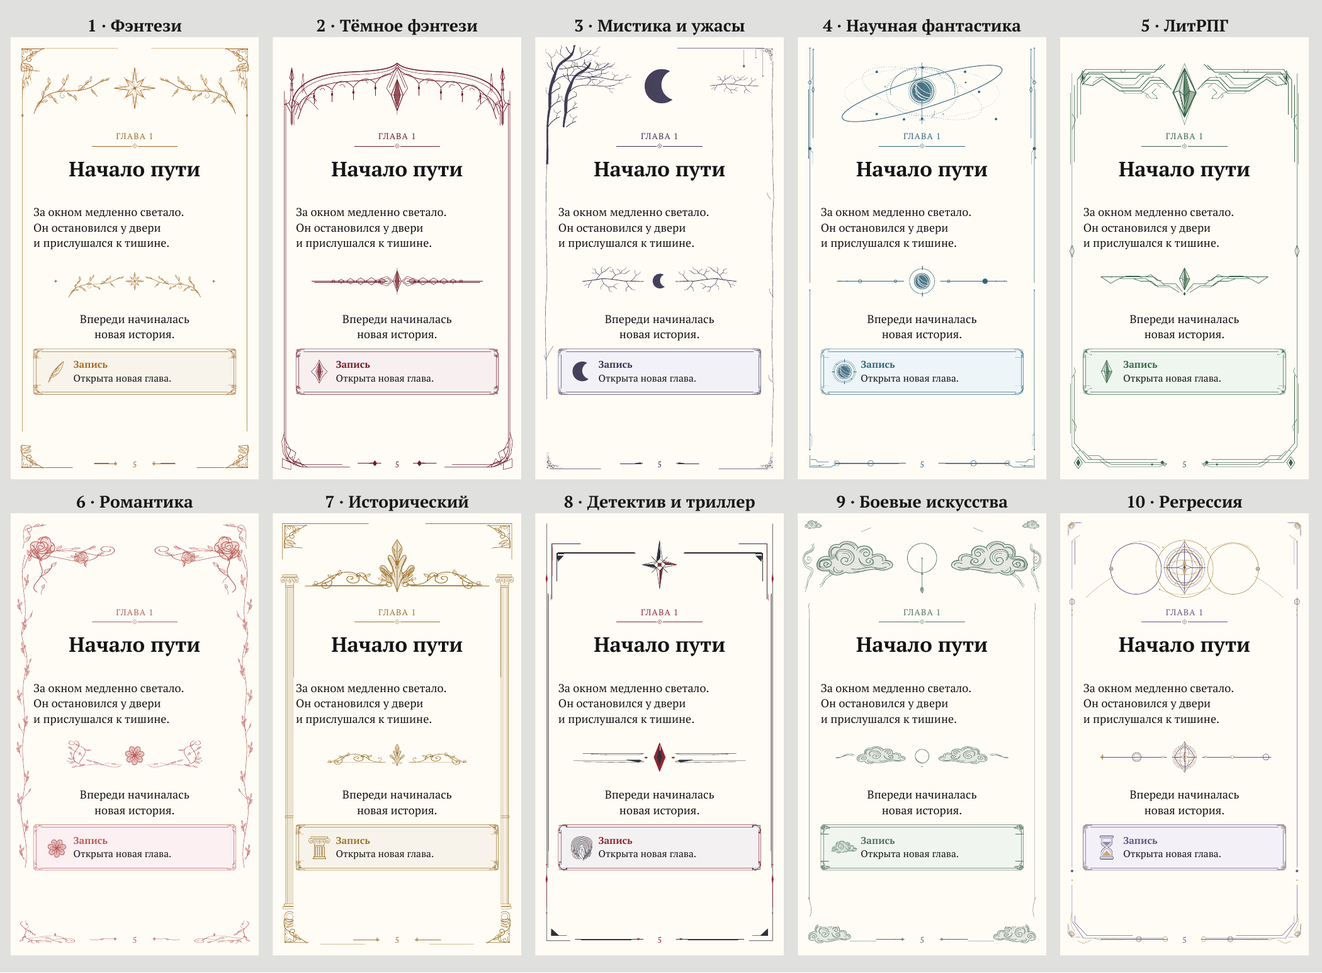
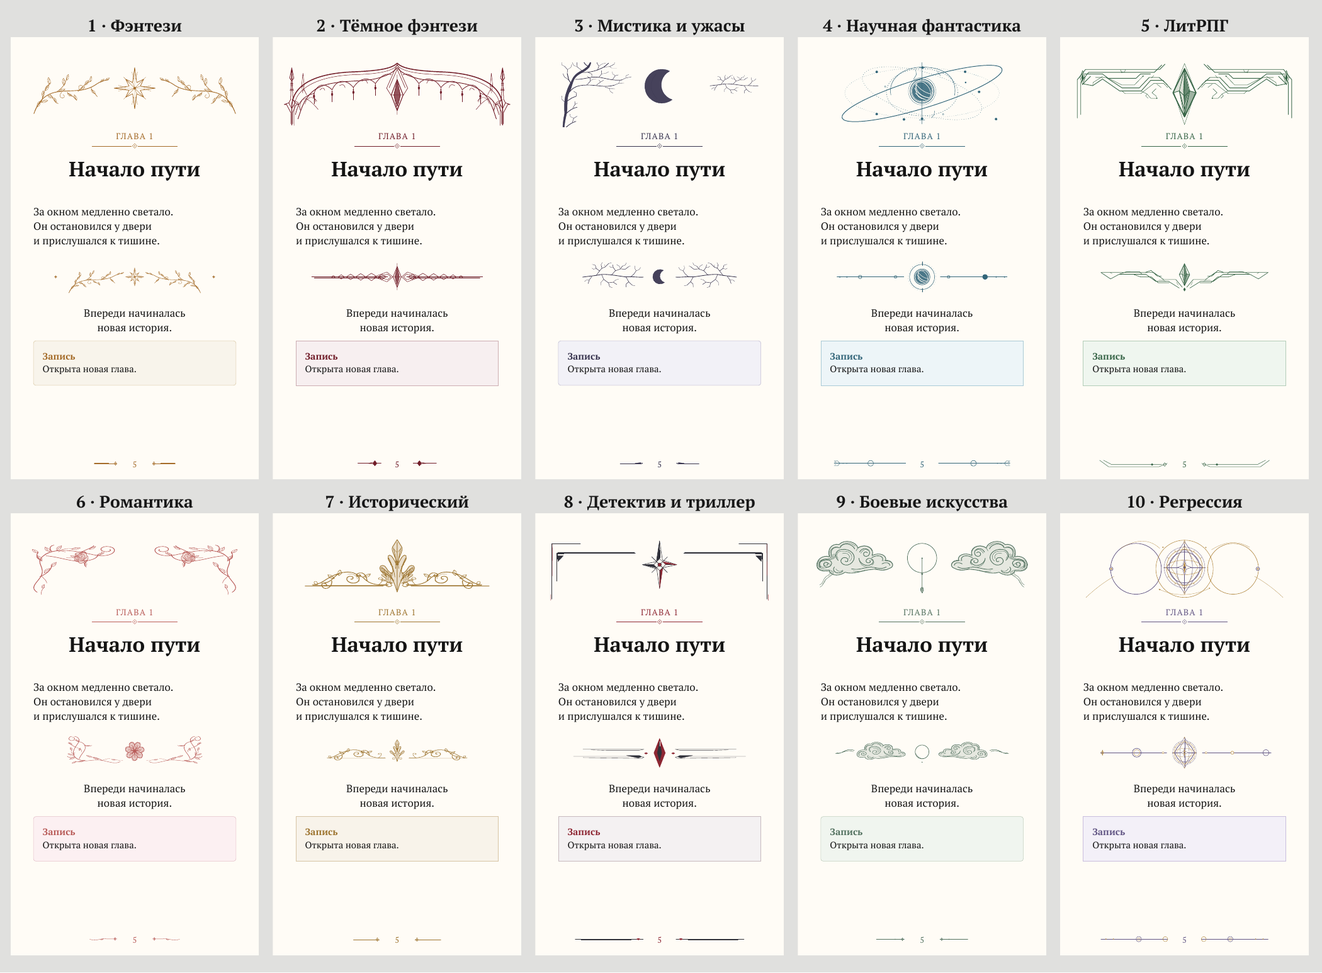
Simplify reading pages and system messages; reduce default text size

diff --git a/src/core/epub/templates.js b/src/core/epub/templates.js
@@ -1,7 +1,7 @@
 'use strict';
 
 const { chapterLabel, chapterKicker } = require('../model');
-const { svgTitleMark, svgSceneBreak, svgSystemIcon, svgPanelCorner } = require('../signature');
+const { svgTitleMark, svgSceneBreak } = require('../signature');
 
 /** Экранирование текста для XML. */
 function esc(s) {
@@ -181,7 +181,6 @@ p.kicker {
   background: ${style.systemBg};
   border: 1px solid ${style.systemBorder};
   border-radius: ${style.panel === 'rounded' ? '0.4em' : '0'};
-  border-left: 2px solid ${style.accent};
   font-family: "${style.signature ? 'PT Serif' : 'PT Sans'}", Georgia, serif;
   font-size: 0.9em;
   line-height: 1.38;
@@ -206,20 +205,8 @@ p.kicker {
 
 .scene svg { width: 100%; max-width: 22em; height: auto; }
 
-/* Рамка главы следует потоку EPUB; читалка сохраняет своё разбиение страниц. */
-.chapter.decorated { position: relative; padding: 0.8em 1.2em 1.6em; border-left: 1px solid ${style.systemBorder}; border-right: 1px solid ${style.systemBorder}; }
-.chapter-corner { position: absolute; width: 1.6em; height: 1.6em; }
-.chapter-corner svg, .panel-corner svg { width: 100%; height: 100%; }
-.corner-tl { left: 0; top: 0; }
-.corner-tr { right: 0; top: 0; transform: scaleX(-1); }
-.corner-bl { left: 0; bottom: 0; transform: scaleY(-1); }
-.corner-br { right: 0; bottom: 0; transform: scale(-1); }
 .kicker-rule { width: 35%; height: 0; margin: 0.6em auto 1em; border-top: 1px solid ${style.accent}; }
-.decorated .sysblock { position: relative; border: 1px solid ${style.accent}; border-left-width: 1px; padding: 0.9em 0.9em 0.9em 3.9em; }
-.system-icon { position: absolute; left: 0.75em; top: 0.85em; width: 2.35em; height: 2.35em; }
-.system-icon svg { width: 100%; height: 100%; }
 .sysblock p:first-of-type strong { color: ${style.accent}; }
-.panel-corner { position: absolute; width: 0.9em; height: 0.9em; }
 
 figure {
   margin: 1.1em 0;
@@ -349,7 +336,6 @@ function aboutXhtml(book) {
 /** Блоки главы → XHTML. */
 function chapterBody(ch, style, hrefOfAsset) {
   const out = [];
-  if (style.signature) for(const corner of ['tl','tr','bl','br']) out.push(`<span class="chapter-corner corner-${corner}">${svgPanelCorner(style.accent,style.genre)}</span>`);
   if (style.signature) out.push(`    <p class="opener-mark">${svgTitleMark(style.accent, style.genre)}</p>`);
   const kicker = chapterKicker(ch);
   if (kicker) out.push(`    <p class="kicker">${esc(kicker)}</p>`);
@@ -373,8 +359,7 @@ function chapterBody(ch, style, hrefOfAsset) {
         break;
       case 'system': {
         const lines = block.lines.map((runs) => `      <p>${runsToHtml(runs)}</p>`).join('\n');
-        const decoration = style.signature ? `<span class="system-icon">${svgSystemIcon(style.accent,style.genre)}</span>` + ['tl','tr','bl','br'].map(c=>`<span class="panel-corner corner-${c}">${svgPanelCorner(style.accent,style.genre)}</span>`).join('') : '';
-        out.push(`    <div class="sysblock" role="note">${decoration}\n${lines}\n    </div>`);
+        out.push(`    <div class="sysblock" role="note">\n${lines}\n    </div>`);
         firstPara = true;
         break;
       }

diff --git a/src/renderer/styles.css b/src/renderer/styles.css
@@ -434,28 +434,18 @@ td.col-title input:focus { background: var(--bg-input); border-color: var(--acce
 .genre-preview { position: relative; isolation: isolate; background: #fffcf6; color: #202020; padding: 21px 25px 24px; margin: 10px 0 18px; text-align: center; font-family: "Book Serif", Georgia, serif; box-shadow: 0 2px 12px #0002; }
 .genre-preview svg { display: block; width: 100%; height: auto; margin: 0 auto; }
 .genre-preview-content { position: relative; z-index: 1; }
-.genre-frame { position: absolute; inset: 6px; z-index: 0; pointer-events: none; }
-.genre-frame svg { width: 100%; height: 100%; }
 .genre-kicker { color: var(--genre-accent); letter-spacing: .06em; font-size: 11px; margin: 7px 0 3px; }
 .genre-kicker-rule { position: relative; width: 45%; height: 1px; background: var(--genre-accent); margin: 9px auto 14px; opacity: .75; }
 .genre-kicker-rule:after { content: ""; position: absolute; width: 4px; height: 4px; background: #fffcf6; border: 1px solid var(--genre-accent); left: calc(50% - 3px); top: -2px; transform: rotate(45deg); }
 .genre-title { font-size: 25px; font-weight: 700; line-height: 1.15; margin-bottom: 19px; }
-.genre-preview p { font-size: 15px; line-height: 1.45; text-align: left; margin: 0 0 10px; }
+.genre-preview p { font-size: 14px; line-height: 1.45; text-align: left; margin: 0 0 10px; }
 #genreDivider { margin: 7px 0 13px; }
 #genreDivider svg { width: 100%; }
 .genre-preview p.genre-next { text-align: center; margin-bottom: 18px; }
-.genre-note { position: relative; display: flex; align-items: center; gap: 11px; border: 1px solid var(--genre-accent); outline: 1px solid var(--genre-accent); outline-offset: -4px; background: var(--genre-bg); font-size: 13px; line-height: 1.4; padding: 14px 12px; text-align: left; }
+.genre-note { border: 1px solid var(--genre-border); background: var(--genre-bg); font-size: 12.5px; line-height: 1.4; padding: 14px 12px; text-align: left; }
 .genre-note strong { color: var(--genre-accent); font-size: 15px; }
-.genre-icon { width: 30px; flex: none; }
-.genre-note-corner { position: absolute; width: 13px; height: 13px; }
-.corner-tl { top: 0; left: 0; }
-.corner-tr { top: 0; right: 0; transform: scaleX(-1); }
-.corner-bl { bottom: 0; left: 0; transform: scaleY(-1); }
-.corner-br { bottom: 0; right: 0; transform: scale(-1); }
 .genre-folio { position: relative; color: var(--genre-accent); font-size: 13px; margin-top: 13px; height: 20px; }
 #genreFolio { position: absolute; inset: 0; }
 #genreFolio svg { height: 22px; }
 .genre-folio > span { position: relative; line-height: 22px; }
 .genre-preview.plain .genre-kicker-rule { display: none; }
-.genre-preview.plain .genre-icon { display: none; }
-.genre-preview.plain .genre-note { outline: none; }

diff --git a/src/renderer/index.html b/src/renderer/index.html
@@ -88,7 +88,6 @@
       </label>
       <p id="genreDescription" class="muted small"></p>
       <div id="genrePreview" class="genre-preview" aria-label="Образец оформления">
-        <div id="genreFrame" class="genre-frame"></div>
         <div class="genre-preview-content">
           <div id="genreOpener"></div>
           <div class="genre-kicker">ГЛАВА 1</div>
@@ -98,9 +97,7 @@
           <div id="genreDivider"></div>
           <p class="genre-next">Впереди начиналась<br/>новая история.</p>
           <div id="genreNote" class="genre-note">
-            <div id="genreIcon" class="genre-icon"></div>
             <div><strong>Запись</strong><br/>Открыта новая глава.</div>
-            <span id="genreNoteCorners"></span>
           </div>
         </div>
         <div class="genre-folio"><div id="genreFolio"></div><span>23</span></div>
@@ -121,8 +118,8 @@
         </label>
       </div>
 
-      <label class="slider">Кегль основного текста <output id="outBody">14.0 pt</output>
-        <input id="styleBody" type="range" min="10" max="18" step="0.1" value="14"/>
+      <label class="slider">Кегль основного текста <output id="outBody">13.0 pt</output>
+        <input id="styleBody" type="range" min="10" max="18" step="0.1" value="13"/>
       </label>
       <label class="slider">Межстрочный интервал <output id="outLead">1.36</output>
         <input id="styleLead" type="range" min="1.25" max="1.6" step="0.01" value="1.36"/>
@@ -130,8 +127,8 @@
       <label class="slider">Поля слева и справа <output id="outSide">10 мм</output>
         <input id="styleSide" type="range" min="9" max="11" step="0.5" value="10"/>
       </label>
-      <label class="slider">Кегль системных блоков <output id="outSys">12.0 pt</output>
-        <input id="styleSys" type="range" min="9.5" max="16" step="0.5" value="12"/>
+      <label class="slider">Кегль системных блоков <output id="outSys">11.5 pt</output>
+        <input id="styleSys" type="range" min="9.5" max="16" step="0.5" value="11.5"/>
       </label>
 
       <div class="checks">

diff --git a/src/core/signature.js b/src/core/signature.js
@@ -58,25 +58,16 @@ function drawKickerRule(doc,cx,y,width,accent) {
   doc.restore();
 }
 function drawSystemDecoration(doc,x,y,w,h,style,{continued=false,continuesOnNext=false}={}) {
-  // Две тонкие рамки и собственные уголки жанра. На разрыве незамкнуты.
-  const angular=style.panel==='angular', cut=angular?6:3;
-  doc.save().lineWidth(.4).strokeColor(style.accent);
-  doc.moveTo(x,y+cut).lineTo(x,y+h-cut);
-  doc.moveTo(x+w,y+cut).lineTo(x+w,y+h-cut);
-  if(!continued) doc.moveTo(x,y+cut).lineTo(x+cut,y).lineTo(x+w-cut,y).lineTo(x+w,y+cut);
-  if(!continuesOnNext) doc.moveTo(x,y+h-cut).lineTo(x+cut,y+h).lineTo(x+w-cut,y+h).lineTo(x+w,y+h-cut);
-  doc.stroke();
-  doc.lineWidth(.2).strokeOpacity(.68);
-  doc.moveTo(x+3,y+7).lineTo(x+3,y+h-7).moveTo(x+w-3,y+7).lineTo(x+w-3,y+h-7);
-  if(!continued) doc.moveTo(x+9,y+3).lineTo(x+w-9,y+3);
-  if(!continuesOnNext) doc.moveTo(x+9,y+h-3).lineTo(x+w-9,y+h-3);
-  doc.stroke().restore();
-  const s=Math.min(12,h/3);
-  for(const [cx,cy,sx,sy,draw] of [[x,y,1,1,!continued],[x+w,y,-1,1,!continued],[x,y+h,1,-1,!continuesOnNext],[x+w,y+h,-1,-1,!continuesOnNext]]) {
-    if(!draw) continue;
-    doc.save().translate(cx,cy).scale(sx,sy);
-    drawArtwork(doc,'corner',0,0,s,s,style.accent,style.genre);
-    doc.restore();
+  // Чистый контур без орнаментов и двойных линий; длинная панель открыта на разрыве.
+  doc.save().lineWidth(.45).strokeColor(style.systemBorder);
+  if(!continued && !continuesOnNext) {
+    doc.roundedRect(x,y,w,h,style.panel==='rounded'?3:0).stroke();
+  } else {
+    doc.moveTo(x,y).lineTo(x,y+h).moveTo(x+w,y).lineTo(x+w,y+h);
+    if(!continued) doc.moveTo(x,y).lineTo(x+w,y);
+    if(!continuesOnNext) doc.moveTo(x,y+h).lineTo(x+w,y+h);
+    doc.stroke();
   }
+  doc.restore();
 }
 module.exports={drawTitleMark,drawOpenerMark,drawSceneBreak,drawPageFrame,drawArtwork,drawKickerRule,drawSystemDecoration,svgTitleMark,svgSceneBreak,svgPageFrame,svgSystemIcon,svgPanelCorner,svgFolio,openerHeight,sceneHeight};

diff --git a/tests/appearance-layout.test.js b/tests/appearance-layout.test.js
@@ -17,14 +17,14 @@ function context(signature = true) {
   const m = createMeasurer(doc, resolveFonts(style));
   return {style, geom: geometry(style), measure: m.width, assets: new Map()};
 }
-test('decorated note reserves its icon column, including every continued page', () => {
+test('clean note uses its full inner width, including every continued page', () => {
   const ctx = context();
   const chapter = {id:'one', kind:'chapter', number:1, title:'Начало', blocks:[{
     type:'system', lines:Array.from({length:150}, (_,i) => [{text:`Строка ${i}: открыта новая глава и начинается путешествие.`}]),
   }]};
   const items = buildChapterFlow(chapter,ctx);
   const panel = items.find(i=>i.t==='system');
-  assert.ok(panel.iconColumn >= 30);
+  assert.equal(panel.iconColumn,0);
   assert.ok(Math.abs(panel.inner + panel.iconColumn + panel.pad*2 - ctx.geom.contentW) < 0.001);
   const {pages} = paginate([{chapter, items}],ctx);
   assert.ok(pages.length > 3);
@@ -45,10 +45,12 @@ test('turning ornaments off removes icon space and SVG decoration from EPUB', ()
   assert.ok(!html.includes('<svg'));
   assert.ok(html.includes('Запись'));
 });
-test('decorated EPUB preserves text, alignment and an accessible note with its genre icon', () => {
+test('EPUB preserves text and alignment without system icons or page corner decorations', () => {
   const chapter={id:'one',kind:'chapter',number:1,title:'Начало',blocks:[{type:'para',align:'center',runs:[{text:'Новая история.'}]},{type:'system',lines:[[{text:'Запись',b:true}],[{text:'Открыта глава.'}]]}]};
   const html=chapterXhtml({language:'ru'},chapter,context().style,()=>null);
-  assert.ok(html.includes('class="system-icon"'));
+  assert.ok(!html.includes('system-icon'));
+  assert.ok(!html.includes('panel-corner'));
+  assert.ok(!html.includes('chapter-corner'));
   assert.ok(html.includes('role="note"'));
   assert.ok(html.includes('text-align:center'));
   assert.ok(html.includes('Открыта глава.'));

diff --git a/src/core/pdf/render.js b/src/core/pdf/render.js
@@ -1,7 +1,7 @@
 'use strict';
 
 const { FONT } = require('./typeset');
-const { drawOpenerMark, drawSceneBreak, drawPageFrame, drawArtwork, drawKickerRule, drawSystemDecoration } = require('../signature');
+const { drawOpenerMark, drawSceneBreak, drawArtwork, drawKickerRule, drawSystemDecoration } = require('../signature');
 
 /**
  * Отрисовка подготовленных страниц.
@@ -87,18 +87,10 @@ function drawSystemPart(doc, part, ctx) {
   const w = geom.contentW;
 
   doc.save();
-  const radius = style.panel === 'rounded' ? 4 : 0;
+  const radius = !part.continued && !part.continuesOnNext && style.panel === 'rounded' ? 3 : 0;
   doc.roundedRect(x, part.y, w, boxH, radius).fillColor(style.systemBg).fill();
   doc.restore();
-  if (style.signature) {
-    drawSystemDecoration(doc,x,part.y,w,boxH,style,part);
-    if (!part.continued) {
-      const size = Math.min(33,boxH-8);
-      drawArtwork(doc,'icon',x+part.pad+1,part.y+(boxH-size)/2,size,size,style.accent,style.genre);
-    }
-  } else {
-    doc.save().lineWidth(.5).strokeColor(style.systemBorder).rect(x,part.y,w,boxH).stroke().restore();
-  }
+  drawSystemDecoration(doc,x,part.y,w,boxH,style,part);
 
   let y = part.y + topPad;
   for (const line of part.lines) {
@@ -177,8 +169,6 @@ function drawFolio(doc, pageNumber, ctx, page) {
 function renderPage(doc, page, pageNumber, ctx) {
   if (!page.parts.some(p => p.t === 'image')) {
     if (ctx.style.signature) doc.rect(0,0,ctx.geom.pageW,ctx.geom.pageH).fillColor('#FFFCF6').fill();
-    const firstBody=page.parts.find(p=>p.t!=='opener');
-    drawPageFrame(doc, ctx.geom, ctx.style,{opening:page.parts.some(p=>p.t==='opener'&&!p.continued),bodyTop:firstBody?firstBody.y:ctx.geom.contentBottom});
   }
   for (const part of page.parts) {
     switch (part.t) {

diff --git a/scripts/smoke.js b/scripts/smoke.js
@@ -15,7 +15,7 @@ const { app, BrowserWindow, ipcMain, dialog, shell } = require('electron');
 const pipeline = require('../src/core/pipeline');
 const { DEFAULT_STYLE, LIMITS } = require('../src/core/style');
 const { GENRES } = require('../src/core/genres');
-const { svgTitleMark, svgSceneBreak, svgPageFrame, svgSystemIcon, svgFolio, svgPanelCorner } = require('../src/core/signature');
+const { svgTitleMark, svgSceneBreak, svgFolio } = require('../src/core/signature');
 const { availableFamilies, resolveFonts } = require('../src/core/fonts');
 
 function parseArgs(argv) {
@@ -46,7 +46,7 @@ function registerIpc(win) {
   ipcMain.handle('asset:dataUrl', async (_e, id) => pipeline.assetDataUrl(id));
   ipcMain.handle('style:defaults', async () => ({
     style: DEFAULT_STYLE,
-    genres: GENRES.map(g => ({ ...g, opener: svgTitleMark(g.accent, g.id), divider: svgSceneBreak(g.accent, g.id), frame: svgPageFrame(g.accent,g.id), icon: svgSystemIcon(g.accent,g.id), folio: svgFolio(g.accent,g.id), corner: svgPanelCorner(g.accent,g.id) })),
+    genres: GENRES.map(g => ({ ...g, opener: svgTitleMark(g.accent, g.id), divider: svgSceneBreak(g.accent, g.id), folio: svgFolio(g.accent,g.id) })),
     limits: LIMITS,
     families: availableFamilies(),
     warnings: resolveFonts({}).warnings,

diff --git a/src/main/main.js b/src/main/main.js
@@ -6,7 +6,7 @@ const { app, BrowserWindow, ipcMain, dialog, shell, Menu } = require('electron')
 const pipeline = require('../core/pipeline');
 const { DEFAULT_STYLE, LIMITS } = require('../core/style');
 const { GENRES } = require('../core/genres');
-const { svgTitleMark, svgSceneBreak, svgPageFrame, svgSystemIcon, svgFolio, svgPanelCorner } = require('../core/signature');
+const { svgTitleMark, svgSceneBreak, svgFolio } = require('../core/signature');
 const { availableFamilies, resolveFonts } = require('../core/fonts');
 const { createOutputPreferences } = require('./output-preferences');
 
@@ -104,7 +104,7 @@ ipcMain.handle('asset:dataUrl', async (_e, assetId) => pipeline.assetDataUrl(ass
 
 ipcMain.handle('style:defaults', async () => ({
   style: DEFAULT_STYLE,
-  genres: GENRES.map(g => ({ ...g, opener: svgTitleMark(g.accent, g.id), divider: svgSceneBreak(g.accent, g.id), frame: svgPageFrame(g.accent,g.id), icon: svgSystemIcon(g.accent,g.id), folio: svgFolio(g.accent,g.id), corner: svgPanelCorner(g.accent,g.id) })),
+  genres: GENRES.map(g => ({ ...g, opener: svgTitleMark(g.accent, g.id), divider: svgSceneBreak(g.accent, g.id), folio: svgFolio(g.accent,g.id) })),
   limits: LIMITS,
   families: availableFamilies(),
   warnings: resolveFonts({}).warnings,

diff --git a/src/renderer/app.js b/src/renderer/app.js
@@ -752,13 +752,14 @@ async function init() {
     $('genreDescription').textContent = genre.description;
     const decorated = $('styleSignature').checked;
     const colorize = svg => (svg || '').replaceAll(genre.accent, accent);
-    for(const [id,key] of [['genreOpener','opener'],['genreDivider','divider'],['genreFrame','frame'],['genreIcon','icon'],['genreFolio','folio']]) {
+    for(const [id,key] of [['genreOpener','opener'],['genreDivider','divider'],['genreFolio','folio']]) {
       $(id).innerHTML = decorated ? colorize(genre[key]) : '';
     }
-    $('genreNoteCorners').innerHTML = decorated ? ['tl','tr','bl','br'].map(c=>`<span class="genre-note-corner corner-${c}">${colorize(genre.corner)}</span>`).join('') : '';
+
     $('genrePreview').classList.toggle('plain',!decorated);
     $('genrePreview').style.setProperty('--genre-accent', accent);
     $('genrePreview').style.setProperty('--genre-bg', genre.systemBg);
+    $('genrePreview').style.setProperty('--genre-border', genre.systemBorder);
     $('genreNote').style.borderRadius = genre.panel === 'rounded' ? '6px' : '0';
   };
   $('styleGenre').addEventListener('change', () => updateGenrePreview(true));

diff --git a/src/core/style.js b/src/core/style.js
@@ -27,7 +27,7 @@ const DEFAULT_STYLE = {
   sans: 'auto', // служебный (PT Sans или совместимый sans-serif)
 
   // Более крупный текст на мобильной странице, как в выбранном образце.
-  bodySize: 14,
+  bodySize: 13,
   lineHeight: 1.36,
   paragraphIndentMm: 4.5,
   justify: true,
@@ -42,7 +42,7 @@ const DEFAULT_STYLE = {
   openerGapMm: 11,
 
   // Декоративные записи — serif, обычные панели — служебный шрифт.
-  systemSize: 12,
+  systemSize: 11.5,
   systemLineHeight: 1.4,
   systemPadMm: 4,
   systemBg: '#F4F2F6',

diff --git a/src/core/pdf/layout.js b/src/core/pdf/layout.js
@@ -103,7 +103,7 @@ function buildChapterFlow(ch, ctx) {
         const size = style.systemSize;
         const step = size * style.systemLineHeight;
         const pad = mm(style.systemPadMm);
-        const iconColumn = style.signature ? 38 : 0;
+        const iconColumn = 0;
         const inner = geom.contentW - pad * 2 - iconColumn;
         const laid = [];
         for (const runs of block.lines) {

diff --git a/README.md b/README.md
@@ -113,8 +113,8 @@ Calibre не требуется: Kindle читается встроенным
 исторический, детектив и триллер, боевые искусства / культивация, регрессия /
 временные циклы. Образец сразу показывает выбранные узоры и цвета. Каждый
 профиль задаёт векторные разделители сцен, виньетки заголовков, оформление
-системных окон и обложки; PDF также получает тонкую рамку и тематические
-колонтитулы. В EPUB узоры сохраняются как SVG и подстраиваются под экран.
+системных окон и обложки. Рамки PDF используются на обложке и титуле;
+страницы чтения сохраняют только тематические колонтитулы. В EPUB узоры сохраняются как SVG и подстраиваются под экран.
 Исходные линии из символов заменяются выбранным векторным разделителем.
 
 **PDF.** Страница 108 × 192 мм (9:16), настраиваемые поля и кегли,
@@ -208,15 +208,17 @@ src/core/
 ## Детальное жанровое оформление
 
 Десять жанров имеют собственные рамки, композиции начала главы, широкие
-разделители сцен, иконки и декоративные уголки записей и номера страниц.
+разделители сцен и оформление номеров страниц. Декоративные рамки сохраняются
+на обложке и титульной странице.
 PDF содержит настоящие векторные контуры через SVG-to-PDFKit (MIT), а текст
-остаётся выделяемым. На страницах продолжения украшения ограничены полями.
+остаётся выделяемым. На страницах чтения боковые рамки и угловые украшения отключены.
+Системные сообщения используют одну аккуратную рамку без иконок и виньеток.
 Отключение «Жанровых орнаментов» убирает эти рисунки.
 
-Новые значения по умолчанию: основной текст 14 pt, интервал 1.36,
-заголовок главы 25.5 pt и записи 12 pt. Ползунки также позволяют вернуться
+Новые значения по умолчанию: основной текст 13 pt, интервал 1.36,
+заголовок главы 25.5 pt и записи 11.5 pt. Ползунки также позволяют вернуться
 к компактным размерам 11.5 / 1.46 / 10. EPUB и AZW3 используют те же SVG;
-рамка главы в EPUB следует потоку текста. FB2 сохраняет орнаменты как PNG,
+страницы чтения в EPUB также обходятся без боковых рамок. FB2 сохраняет орнаменты как PNG,
 а оформление MOBI зависит от возможностей старых читалок. TXT содержит текст.
 
 Реальные страницы PDF, собранные приложением:
